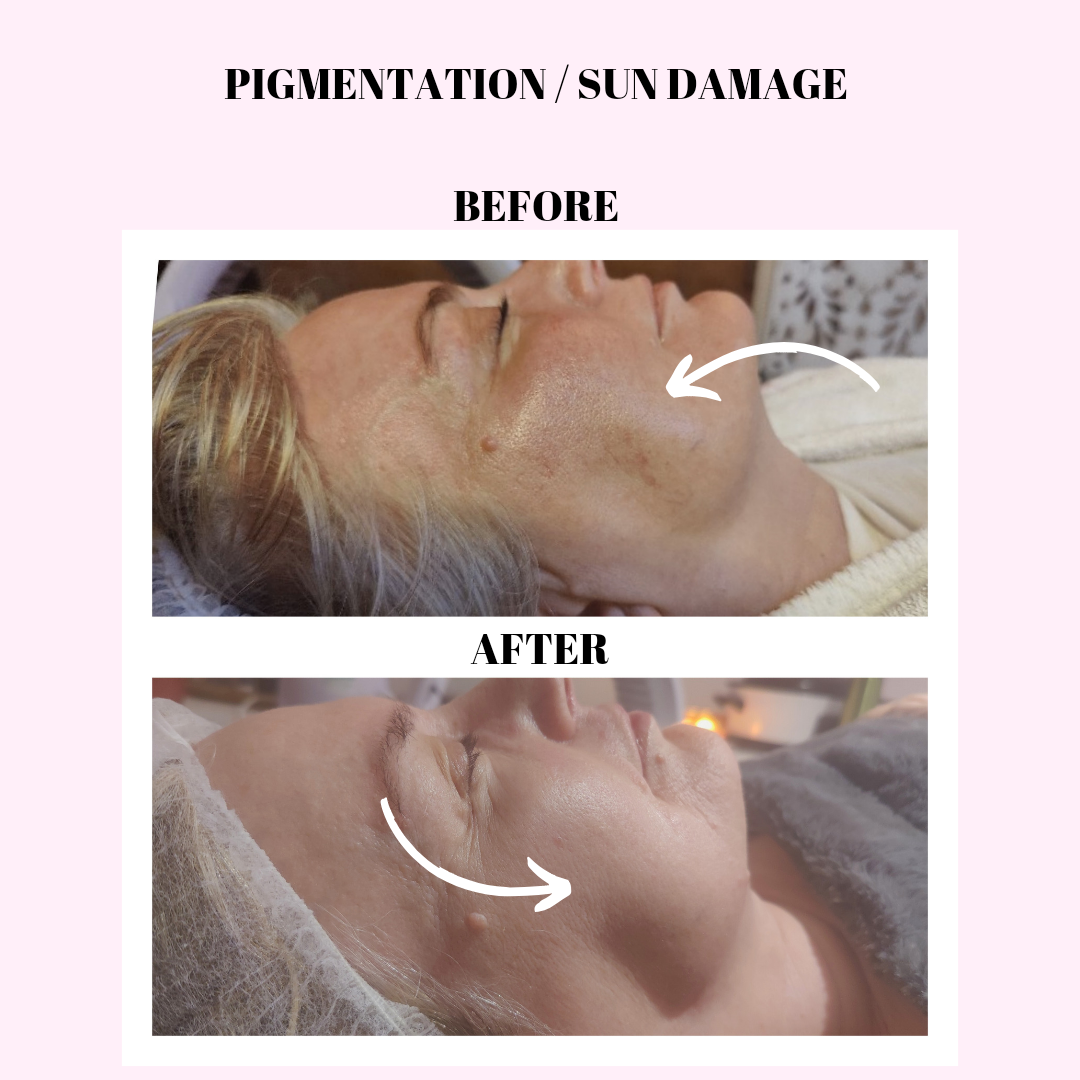
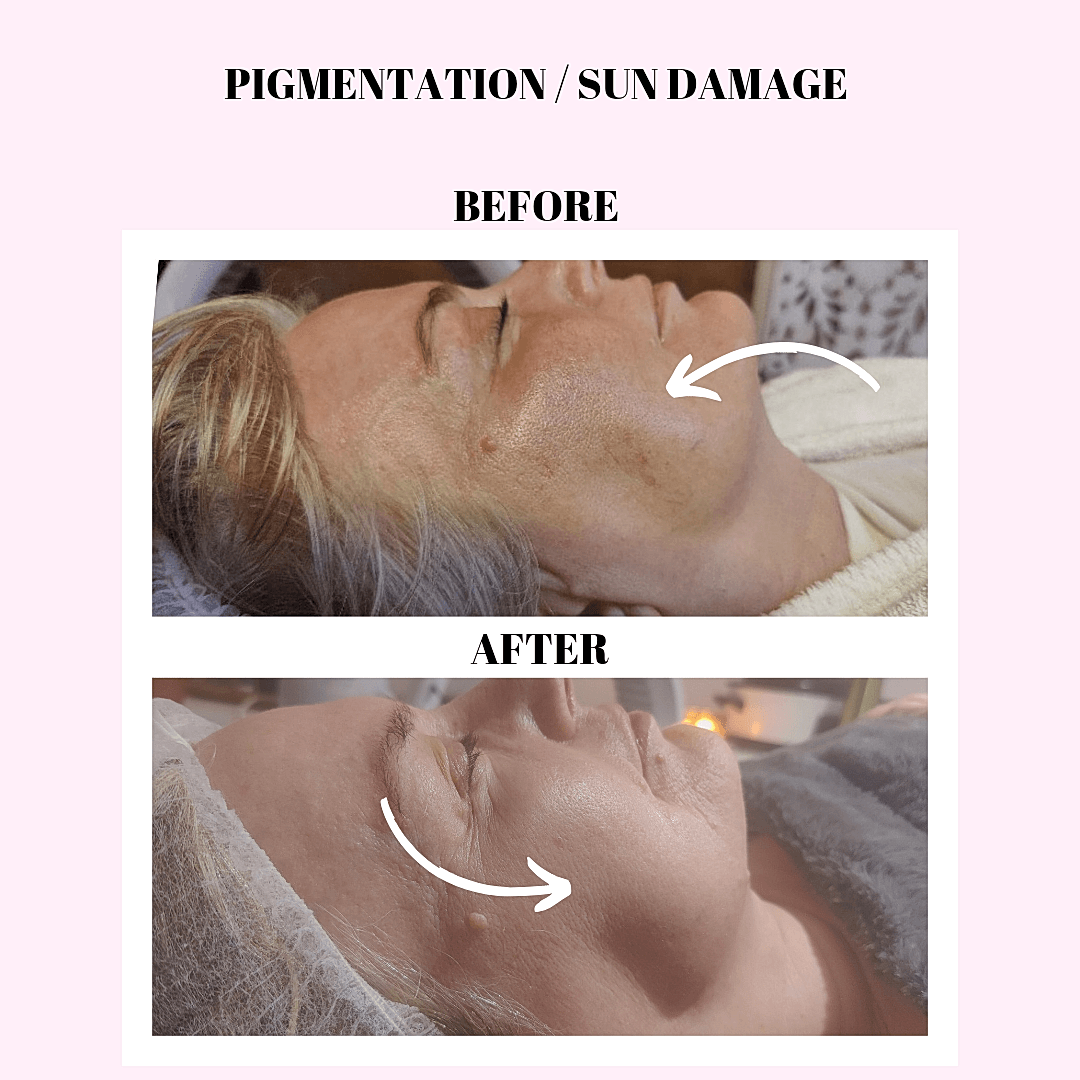
Format bespoke facial pricing into clean separate lines with direct links and enhance photo sharpness across facials page

diff --git a/src/app/treatments/facials/page.tsx b/src/app/treatments/facials/page.tsx
@@ -38,6 +38,7 @@ export default function FacialsPage() {
               src="/images/skin-hub/skin-hub-room-wide.jpg"
               alt="The Beauty Barn dedicated Skin Hub suite in Scraptoft with treatment bed and neon sign"
               fill
+              unoptimized
               className="object-cover group-hover:scale-105 transition duration-500"
               sizes="(max-width: 768px) 100vw, 50vw"
               priority
@@ -154,8 +155,9 @@ export default function FacialsPage() {
                   src="/images/treatments/microneedling-before-after.jpg"
                   alt="Bespoke Facial Before and After at The Beauty Barn Leicester"
                   fill
+                  unoptimized
                   className="object-cover"
-                  sizes="(max-width: 768px) 100vw, (max-width: 1200px) 50vw, 25vw"
+                  sizes="(max-width: 768px) 100vw, (max-width: 1200px) 50vw, 350px"
                 />
                 <div className="absolute top-3 left-3 px-3 py-1 rounded-full bg-black/85 backdrop-blur-md text-[11px] font-bold text-white uppercase tracking-wider shadow-md">
                   Before & After
@@ -192,8 +194,9 @@ export default function FacialsPage() {
                   src="/images/treatments/facials-pigmentation-before-after.png"
                   alt="Pigmentation and Sun Damage Before and After Microneedling at The Beauty Barn"
                   fill
-                  className="object-contain bg-white"
-                  sizes="(max-width: 768px) 100vw, (max-width: 1200px) 50vw, 25vw"
+                  unoptimized
+                  className="object-cover"
+                  sizes="(max-width: 768px) 100vw, (max-width: 1200px) 50vw, 350px"
                 />
                 <div className="absolute top-3 left-3 px-3 py-1 rounded-full bg-black/85 backdrop-blur-md text-[11px] font-bold text-white uppercase tracking-wider shadow-md">
                   Clinical Case Study
@@ -230,8 +233,9 @@ export default function FacialsPage() {
                   src="/images/treatments/facials-progression-timeline.jpg"
                   alt="Example of Facial Peels for Active Acne at The Beauty Barn Leicester"
                   fill
+                  unoptimized
                   className="object-cover"
-                  sizes="(max-width: 768px) 100vw, (max-width: 1200px) 50vw, 25vw"
+                  sizes="(max-width: 768px) 100vw, (max-width: 1200px) 50vw, 350px"
                 />
                 <div className="absolute top-3 left-3 px-3 py-1 rounded-full bg-black/85 backdrop-blur-md text-[11px] font-bold text-white uppercase tracking-wider shadow-md">
                   Active Acne Peels
@@ -268,8 +272,9 @@ export default function FacialsPage() {
                   src="/images/treatments/million-dollar-facial-client.jpg"
                   alt="Smiling client holding I Feel A Million Dollars sign outside The Beauty Barn"
                   fill
+                  unoptimized
                   className="object-cover object-center"
-                  sizes="(max-width: 768px) 100vw, (max-width: 1200px) 50vw, 25vw"
+                  sizes="(max-width: 768px) 100vw, (max-width: 1200px) 50vw, 350px"
                 />
                 <div className="absolute top-3 left-3 px-3 py-1 rounded-full bg-black/85 backdrop-blur-md text-[11px] font-bold text-white uppercase tracking-wider shadow-md">
                   Real Client Glow
@@ -353,32 +358,49 @@ export default function FacialsPage() {
             </div>
 
             <div className="grid grid-cols-3 gap-3 pt-2">
-              <div className="p-3 rounded-2xl bg-white border border-cream-200 text-center shadow-sm">
-                <span className="text-[10px] uppercase font-bold tracking-wider text-bronze-600 block">Express</span>
-                <span className="font-serif text-lg font-bold text-sage-900">£65</span>
-                <span className="text-[11px] text-charcoal-800/60 block mt-0.5">30 mins</span>
+              <div className="p-3.5 rounded-2xl bg-white border border-cream-200 text-center shadow-sm flex flex-col justify-between">
+                <div>
+                  <span className="text-[10px] uppercase font-bold tracking-wider text-bronze-600 block">Express</span>
+                  <span className="font-serif text-xl font-bold text-sage-900">£65</span>
+                  <span className="text-[11px] text-charcoal-800/60 block mt-0.5">30 mins</span>
+                </div>
+                <button
+                  onClick={() => openFresha('https://www.fresha.com/a/the-beauty-barn-leicester-leicester-beeby-road-x4x1h429/booking?offerItems=sv%3A8493168', 'The Beauty Barn Bespoke Facial (Express 30 mins)')}
+                  className="mt-3 w-full py-2 rounded-xl bg-sage-800 hover:bg-sage-900 text-cream-50 text-[11px] font-semibold uppercase tracking-wider transition shadow-xs flex items-center justify-center gap-1"
+                >
+                  <Calendar className="w-3 h-3 text-bronze-300" />
+                  Book 30m
+                </button>
               </div>
-              <div className="p-3 rounded-2xl bg-white border-2 border-bronze-400 text-center shadow-sm relative">
+              <div className="p-3.5 rounded-2xl bg-white border-2 border-bronze-400 text-center shadow-sm relative flex flex-col justify-between">
                 <span className="absolute -top-2.5 left-1/2 -translate-x-1/2 px-2 py-0.5 rounded-full bg-bronze-600 text-[9px] font-bold uppercase tracking-wider text-white">Popular</span>
-                <span className="text-[10px] uppercase font-bold tracking-wider text-bronze-600 block">Signature</span>
-                <span className="font-serif text-lg font-bold text-sage-900">£100</span>
-                <span className="text-[11px] text-charcoal-800/60 block mt-0.5">60 mins</span>
+                <div>
+                  <span className="text-[10px] uppercase font-bold tracking-wider text-bronze-600 block">Signature</span>
+                  <span className="font-serif text-xl font-bold text-sage-900">£100</span>
+                  <span className="text-[11px] text-charcoal-800/60 block mt-0.5">60 mins</span>
+                </div>
+                <button
+                  onClick={() => openFresha('https://www.fresha.com/a/the-beauty-barn-leicester-leicester-beeby-road-x4x1h429/booking?offerItems=sv%3A8493168', 'The Beauty Barn Bespoke Facial (Signature 60 mins)')}
+                  className="mt-3 w-full py-2 rounded-xl bg-bronze-600 hover:bg-bronze-700 text-white text-[11px] font-semibold uppercase tracking-wider transition shadow-xs flex items-center justify-center gap-1"
+                >
+                  <Calendar className="w-3 h-3 text-white" />
+                  Book 60m
+                </button>
               </div>
-              <div className="p-3 rounded-2xl bg-white border border-cream-200 text-center shadow-sm">
-                <span className="text-[10px] uppercase font-bold tracking-wider text-bronze-600 block">Deluxe</span>
-                <span className="font-serif text-lg font-bold text-sage-900">£130</span>
-                <span className="text-[11px] text-charcoal-800/60 block mt-0.5">90 mins</span>
+              <div className="p-3.5 rounded-2xl bg-white border border-cream-200 text-center shadow-sm flex flex-col justify-between">
+                <div>
+                  <span className="text-[10px] uppercase font-bold tracking-wider text-bronze-600 block">Deluxe</span>
+                  <span className="font-serif text-xl font-bold text-sage-900">£130</span>
+                  <span className="text-[11px] text-charcoal-800/60 block mt-0.5">90 mins</span>
+                </div>
+                <button
+                  onClick={() => openFresha('https://www.fresha.com/a/the-beauty-barn-leicester-leicester-beeby-road-x4x1h429/booking?offerItems=sv%3A8493168', 'The Beauty Barn Bespoke Facial (Deluxe 90 mins)')}
+                  className="mt-3 w-full py-2 rounded-xl bg-sage-800 hover:bg-sage-900 text-cream-50 text-[11px] font-semibold uppercase tracking-wider transition shadow-xs flex items-center justify-center gap-1"
+                >
+                  <Calendar className="w-3 h-3 text-bronze-300" />
+                  Book 90m
+                </button>
               </div>
-            </div>
-
-            <div className="pt-2 flex flex-wrap items-center gap-3">
-              <button
-                onClick={() => openFresha('https://www.fresha.com/a/the-beauty-barn-leicester-leicester-beeby-road-x4x1h429/booking?offerItems=sv%3A8493168', 'The Beauty Barn Bespoke Facial')}
-                className="px-6 py-3 rounded-xl bg-sage-800 hover:bg-sage-900 text-cream-50 text-xs font-semibold uppercase tracking-wider transition shadow-md flex items-center gap-2"
-              >
-                <Calendar className="w-3.5 h-3.5 text-bronze-300" />
-                Book Bespoke Facial (From £65)
-              </button>
             </div>
           </div>
         </div>
@@ -407,8 +429,9 @@ export default function FacialsPage() {
                 src="/images/skin-hub/skin-hub-led-canopy.jpg"
                 alt="Clinical LED light therapy canopy arch glowing red in The Skin Hub"
                 fill
+                unoptimized
                 className="object-cover group-hover:scale-105 transition duration-500"
-                sizes="(max-width: 768px) 100vw, 33vw"
+                sizes="(max-width: 768px) 100vw, 500px"
               />
               <div className="absolute top-3 left-3 px-3 py-1 rounded-full bg-black/85 backdrop-blur-md text-[11px] font-bold text-white uppercase tracking-wider shadow-md">
                 Clinical Phototherapy
@@ -431,8 +454,9 @@ export default function FacialsPage() {
                 src="/images/skin-hub/skin-hub-entrance-door.jpg"
                 alt="Entrance door with gold Treatment Room plaque looking into The Skin Hub neon"
                 fill
+                unoptimized
                 className="object-cover group-hover:scale-105 transition duration-500"
-                sizes="(max-width: 768px) 100vw, 33vw"
+                sizes="(max-width: 768px) 100vw, 500px"
               />
               <div className="absolute top-3 left-3 px-3 py-1 rounded-full bg-black/85 backdrop-blur-md text-[11px] font-bold text-white uppercase tracking-wider shadow-md">
                 Dedicated Room
@@ -458,8 +482,9 @@ export default function FacialsPage() {
                 src="/images/skin-hub/skin-hub-treatment-station.jpg"
                 alt="MEDI+ cosmeceuticals and sterilisation station in The Skin Hub"
                 fill
+                unoptimized
                 className="object-cover group-hover:scale-105 transition duration-500"
-                sizes="(max-width: 768px) 100vw, 33vw"
+                sizes="(max-width: 768px) 100vw, 500px"
               />
               <div className="absolute top-3 left-3 px-3 py-1 rounded-full bg-black/85 backdrop-blur-md text-[11px] font-bold text-white uppercase tracking-wider shadow-md">
                 MEDI+ Cosmeceuticals
@@ -524,20 +549,81 @@ export default function FacialsPage() {
                 </div>
               </div>
 
-              <div className="pt-6 mt-6 border-t border-cream-200 flex items-center justify-between">
-                <div>
-                  <span className="text-[10px] text-charcoal-800/60 block">Price</span>
-                  <span className="font-serif text-lg font-bold text-sage-900">{treatment.price}</span>
-                </div>
+              {treatment.id === 'beauty-barn-bespoke-facial' ? (
+                <div className="pt-5 mt-6 border-t border-cream-200 space-y-2.5 w-full">
+                  <div className="flex items-center justify-between pb-1">
+                    <span className="text-[11px] font-bold text-sage-900 uppercase tracking-wider">
+                      Available Options:
+                    </span>
+                    <span className="text-[11px] text-bronze-700 font-semibold">
+                      From £65
+                    </span>
+                  </div>
 
-                <button
-                  onClick={() => openFresha(treatment.freshaUrl, treatment.name)}
-                  className="px-5 py-2.5 rounded-xl bg-sage-800 hover:bg-sage-900 text-cream-50 text-xs font-medium transition shadow-sm flex items-center gap-1.5"
-                >
-                  <Calendar className="w-3.5 h-3.5 text-bronze-300" />
-                  Book with Fresha
-                </button>
-              </div>
+                  {/* Express 30m */}
+                  <div className="flex items-center justify-between p-2.5 rounded-2xl bg-cream-50/90 border border-cream-200 hover:border-bronze-300 transition">
+                    <div>
+                      <span className="text-xs font-bold text-sage-900 block">Express Bespoke Facial</span>
+                      <span className="text-[11px] text-charcoal-800/65">30 mins • £65</span>
+                    </div>
+                    <button
+                      onClick={() => openFresha('https://www.fresha.com/a/the-beauty-barn-leicester-leicester-beeby-road-x4x1h429/booking?offerItems=sv%3A8493168', 'The Beauty Barn Bespoke Facial (Express 30 mins)')}
+                      className="px-3.5 py-1.5 rounded-xl bg-sage-800 hover:bg-sage-900 text-cream-50 text-[11px] font-semibold uppercase tracking-wider transition shadow-xs flex items-center gap-1"
+                    >
+                      <Calendar className="w-3 h-3 text-bronze-300" />
+                      Book (£65)
+                    </button>
+                  </div>
+
+                  {/* Signature 60m */}
+                  <div className="flex items-center justify-between p-2.5 rounded-2xl bg-bronze-50/40 border border-bronze-300 hover:border-bronze-400 transition">
+                    <div>
+                      <div className="flex items-center gap-1.5">
+                        <span className="text-xs font-bold text-sage-900 block">Signature Bespoke Facial</span>
+                        <span className="px-1.5 py-0.2 rounded-full bg-bronze-600 text-white text-[9px] font-bold uppercase tracking-wider">Popular</span>
+                      </div>
+                      <span className="text-[11px] text-charcoal-800/65">60 mins • £100</span>
+                    </div>
+                    <button
+                      onClick={() => openFresha('https://www.fresha.com/a/the-beauty-barn-leicester-leicester-beeby-road-x4x1h429/booking?offerItems=sv%3A8493168', 'The Beauty Barn Bespoke Facial (Signature 60 mins)')}
+                      className="px-3.5 py-1.5 rounded-xl bg-bronze-600 hover:bg-bronze-700 text-white text-[11px] font-semibold uppercase tracking-wider transition shadow-xs flex items-center gap-1"
+                    >
+                      <Calendar className="w-3 h-3 text-white" />
+                      Book (£100)
+                    </button>
+                  </div>
+
+                  {/* Deluxe 90m */}
+                  <div className="flex items-center justify-between p-2.5 rounded-2xl bg-cream-50/90 border border-cream-200 hover:border-bronze-300 transition">
+                    <div>
+                      <span className="text-xs font-bold text-sage-900 block">Deluxe Bespoke Facial</span>
+                      <span className="text-[11px] text-charcoal-800/65">90 mins • £130</span>
+                    </div>
+                    <button
+                      onClick={() => openFresha('https://www.fresha.com/a/the-beauty-barn-leicester-leicester-beeby-road-x4x1h429/booking?offerItems=sv%3A8493168', 'The Beauty Barn Bespoke Facial (Deluxe 90 mins)')}
+                      className="px-3.5 py-1.5 rounded-xl bg-sage-800 hover:bg-sage-900 text-cream-50 text-[11px] font-semibold uppercase tracking-wider transition shadow-xs flex items-center gap-1"
+                    >
+                      <Calendar className="w-3 h-3 text-bronze-300" />
+                      Book (£130)
+                    </button>
+                  </div>
+                </div>
+              ) : (
+                <div className="pt-6 mt-6 border-t border-cream-200 flex items-center justify-between">
+                  <div>
+                    <span className="text-[10px] text-charcoal-800/60 block">Price</span>
+                    <span className="font-serif text-lg font-bold text-sage-900">{treatment.price}</span>
+                  </div>
+
+                  <button
+                    onClick={() => openFresha(treatment.freshaUrl, treatment.name)}
+                    className="px-5 py-2.5 rounded-xl bg-sage-800 hover:bg-sage-900 text-cream-50 text-xs font-medium transition shadow-sm flex items-center gap-1.5"
+                  >
+                    <Calendar className="w-3.5 h-3.5 text-bronze-300" />
+                    Book with Fresha
+                  </button>
+                </div>
+              )}
             </div>
           ))}
         </div>

diff --git a/src/data/treatments.ts b/src/data/treatments.ts
@@ -218,7 +218,7 @@ export const TREATMENTS: Treatment[] = [
     "category": "facials",
     "categoryLabel": "Advanced Skin Clinic",
     "duration": "30 - 90 mins",
-    "price": "From £65 (Express £65 / Signature £100 / Deluxe £130)",
+    "price": "From £65",
     "priceNum": 65,
     "description": "Zofia and our skin specialists tailor every step to your unique skin condition, combining clinical active ingredients with soothing spa touches.",
     "highlights": [
